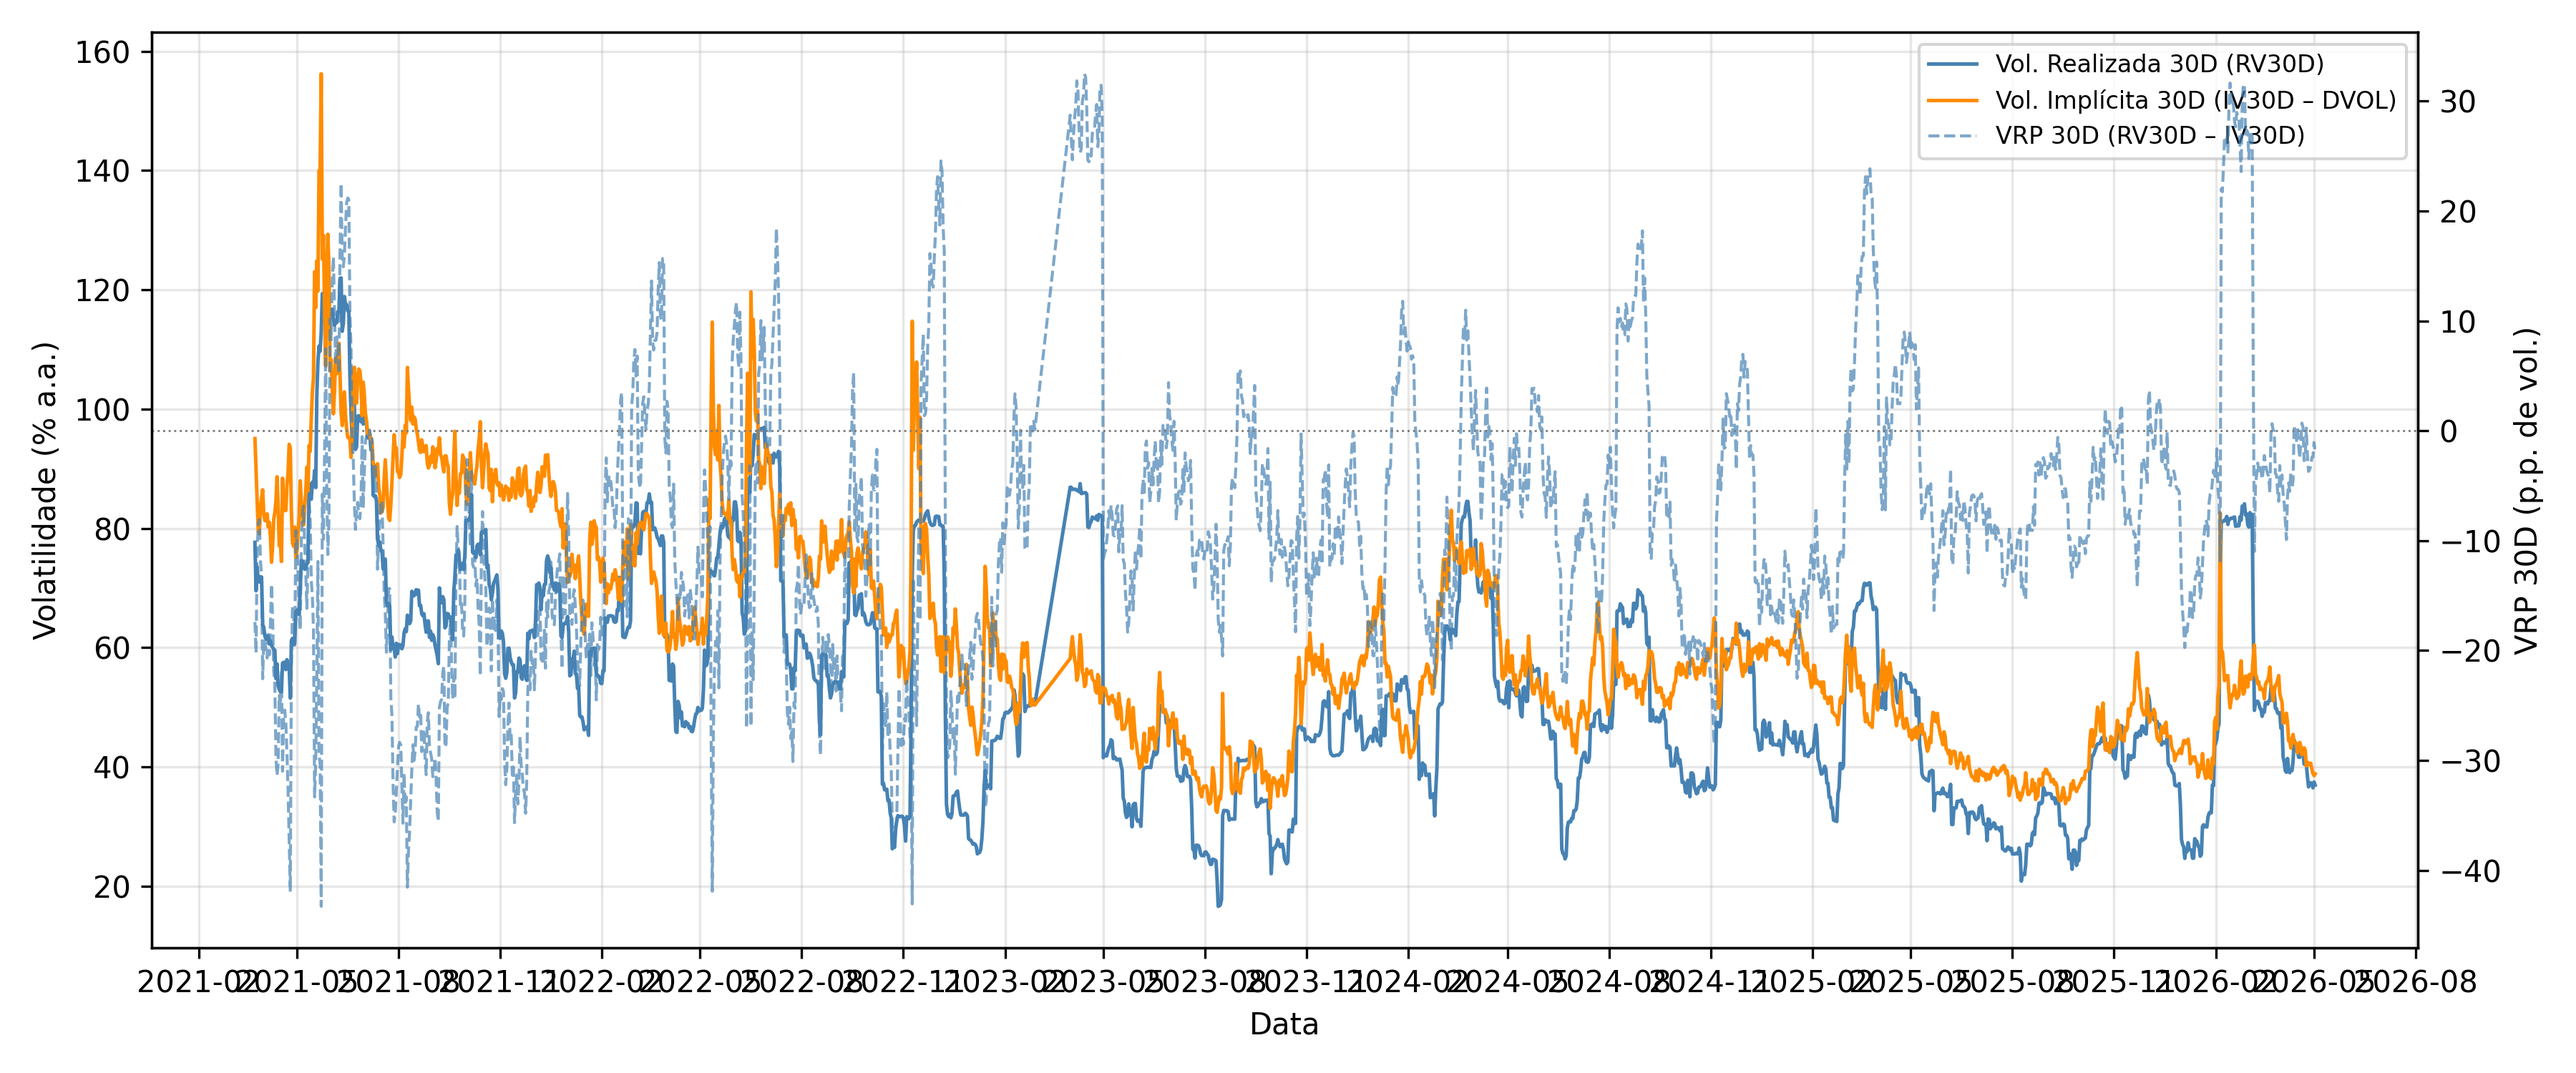
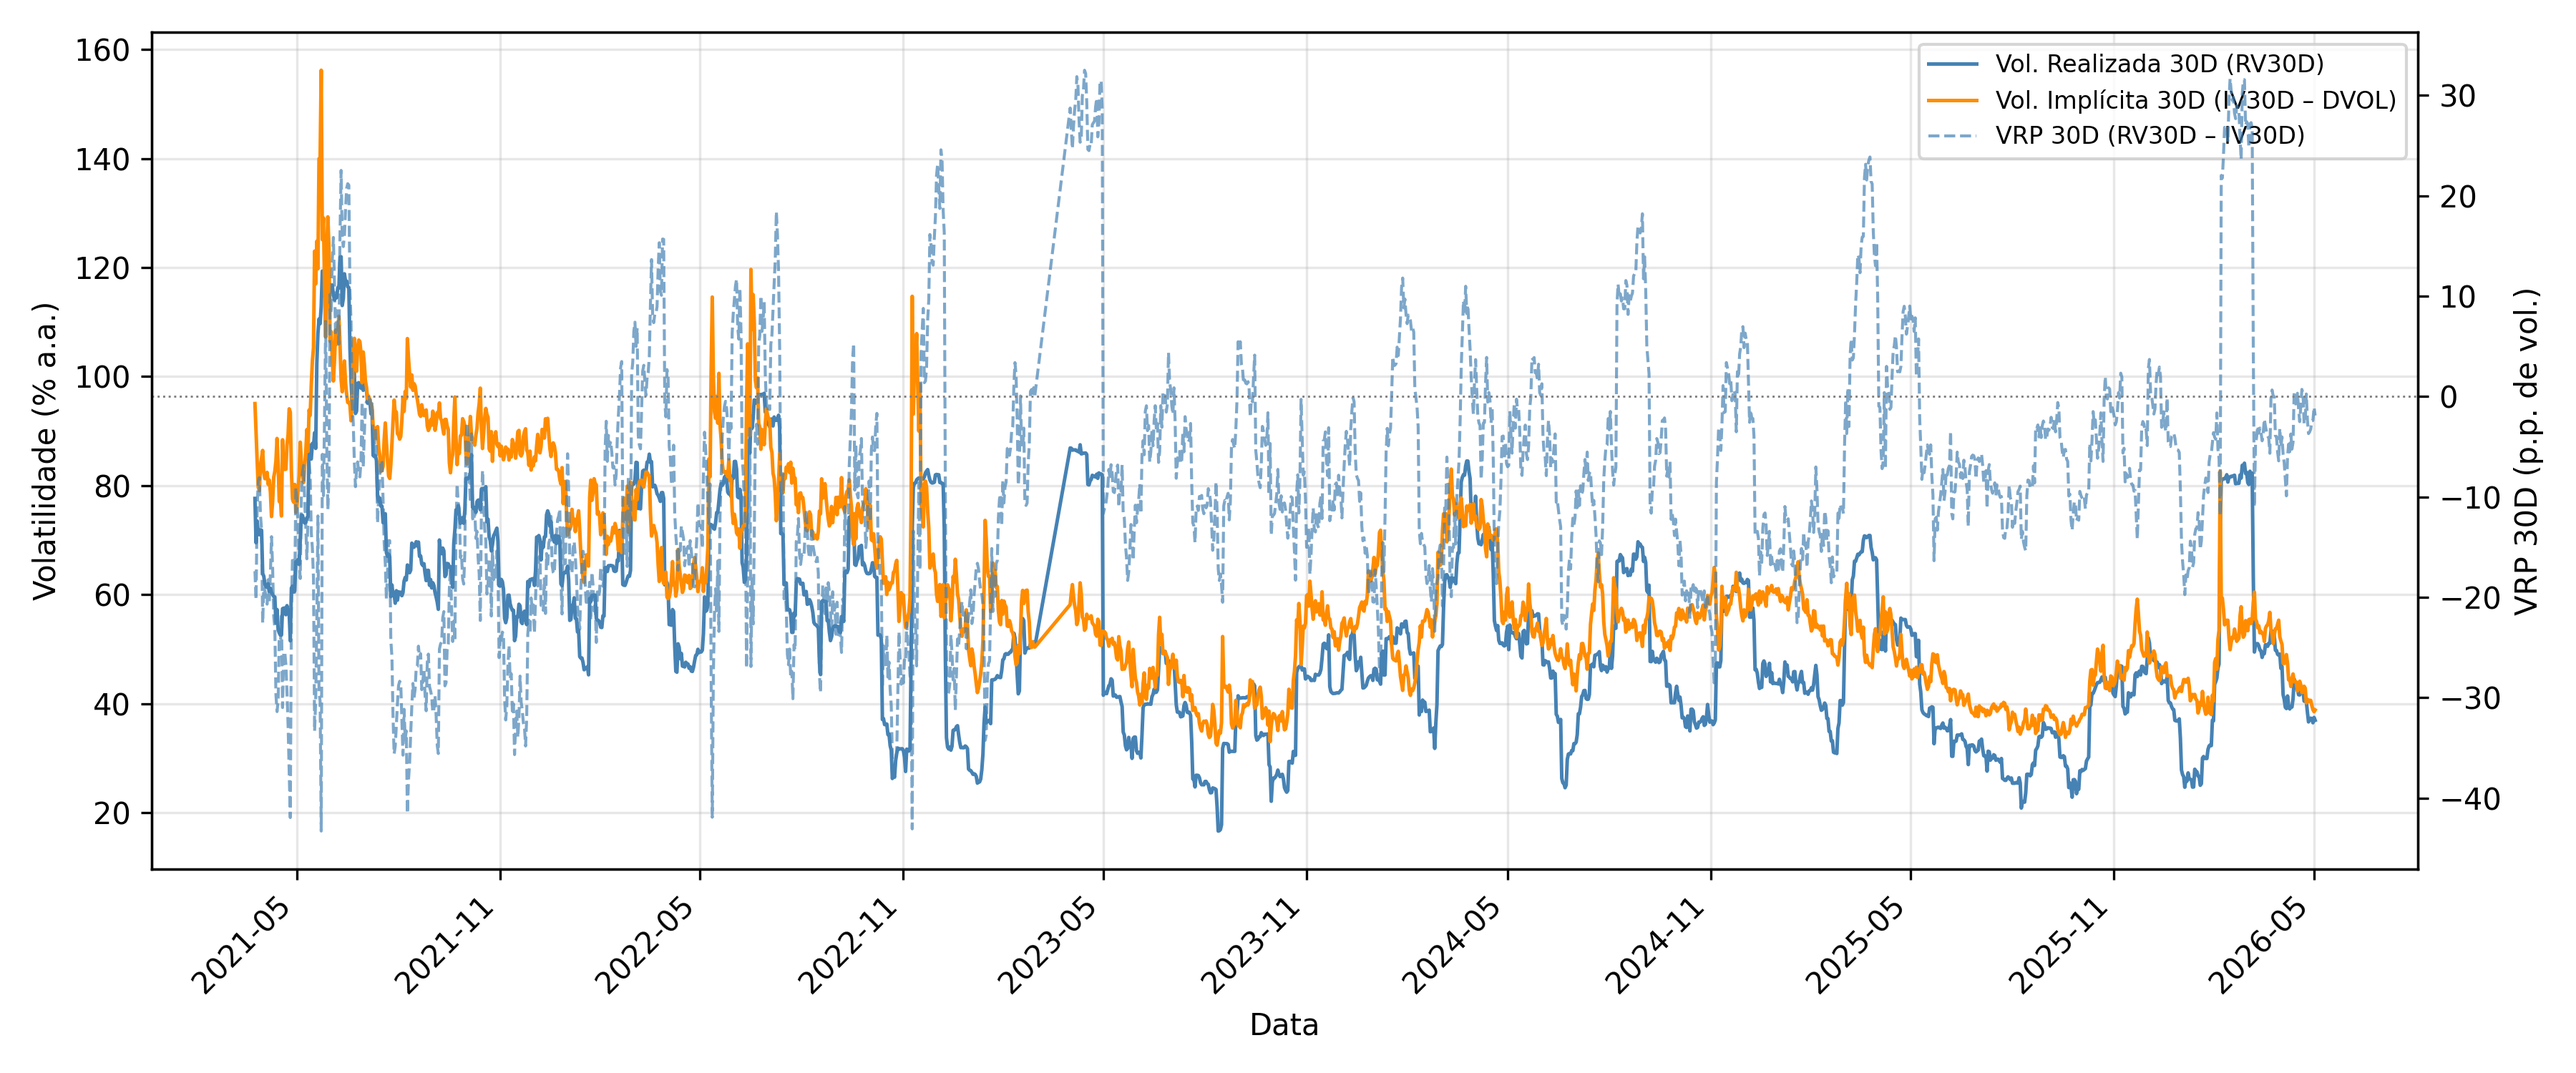
fix(cap3): corrige texto 3.3 (modo -7,5) e 3.4 (boxplot 6 anos, dispersao nao-monotonica), ticks legiveis na fig 3.1
- Secao 3.3: "modo entre -5 e -3" (bin do histograma) -> "em torno de -7,5"
  (pico real da densidade KDE, mais preciso que o bin).
- Secao 3.4: paragrafo reescrito para descrever o boxplot regenerado de 6
  anos (2021-2026), nao mais a figura antiga de 3 anos. Mediana negativa
  em todos os anos, compressao geral de -18 p.p. (2021) para -4 p.p.
  (fracao inicial de 2026, N=122), mas dispersao nao-monotonica: 2021/2022
  com maior IQR (17/19 p.p.), 2024 como excecao com dispersao elevada de
  novo, possivelmente ligada ao reposicionamento pos-ETF spot (mesma
  ancora institucional ja citada na introducao do capitulo).
- plot_vrp_timeseries.py: ticks do eixo x de MonthLocator(interval=3) para
  interval=6, rotacao 45 graus -- estavam sobrepostos e ilegiveis com 6
  anos de dados. Figura regenerada e conferida visualmente.

Nao pushado -- aguardando revisao do diff antes do push final.

diff --git a/chapters/cap3_dados.tex b/chapters/cap3_dados.tex
@@ -106,11 +106,10 @@ A distribuição do prêmio de risco de volatilidade apresenta duas
 características marcantes. Primeira, a presença de assimetria positiva
 (coeficiente de assimetria de $+0{,}59$) e caudas moderadamente pesadas
 (excesso de curtose de $+0{,}95$), afastando-se da hipótese de normalidade.
-Segunda, a distribuição é unimodal, com o modo concentrado na região de
-valores negativos (entre aproximadamente $-5$ e $-3$ pontos percentuais de
-volatilidade anualizada), consistente com a média amostral negativa
-($-8{,}25$ p.p.) e com o predomínio de um regime em que a volatilidade
-implícita supera a realizada.
+Segunda, a distribuição é unimodal, com o modo concentrado em torno de
+$-7{,}5$ pontos percentuais de volatilidade anualizada, consistente com a
+média amostral negativa ($-8{,}25$ p.p.) e com o predomínio de um regime em
+que a volatilidade implícita supera a realizada.
 
 Embora unimodal, a distribuição exibe assimetria positiva e uma cauda
 direita não desprezível: a maior parte das observações concentra-se em
@@ -144,13 +143,23 @@ Figura~\ref{fig:vrp_boxplot} apresenta os resultados desse agrupamento anual.
 \end{figure}
 }{}
 
-Os resultados indicam que o prêmio de risco de volatilidade não é homogêneo ao
-longo do tempo. Em 2023, o BVRP apresentou maior variabilidade e valores medianos
-mais elevados, ao passo que 2024 e 2025 exibiram distribuições mais comprimidas,
-porém com persistência do prêmio de seguro (valores negativos do BVRP). Essa evidência sugere que modelos com
-parâmetros constantes podem ser insuficientes para capturar plenamente a
-dinâmica do BVRP, justificando a adoção de abordagens que permitam variação
-temporal e efeitos de regime nos capítulos subsequentes.
+Os resultados indicam que o prêmio de risco de volatilidade não é homogêneo
+ao longo do tempo. O prêmio é negativo em todos os anos da amostra --- a
+mediana anual permanece abaixo de zero de 2021 a 2026 ---, confirmando a
+persistência do prêmio de seguro. Sua magnitude, contudo, atenua-se ao longo
+do período: a mediana passa de aproximadamente $-18$ p.p. em 2021 para cerca
+de $-4$ p.p. na fração inicial de 2026, indicando compressão gradual do
+prêmio à medida que o mercado de opções de Bitcoin amadurece. A dispersão
+não segue padrão monotônico: os anos de 2021 e 2022 exibem a maior
+variabilidade (amplitude interquartílica próxima de $17$ e $19$ p.p.,
+respectivamente), refletindo a turbulência do mercado nesse período, ao passo
+que 2023, 2025 e a fração de 2026 apresentam distribuições mais comprimidas.
+O ano de 2024 constitui exceção parcial, com dispersão novamente elevada,
+possivelmente associada ao reposicionamento do mercado após a aprovação dos
+ETFs \textit{spot} em janeiro daquele ano. Essa heterogeneidade sugere que
+modelos com parâmetros constantes podem ser insuficientes para capturar
+plenamente a dinâmica do BVRP, justificando a adoção de abordagens que
+permitam variação temporal e efeitos de regime nos capítulos subsequentes.
 
 % =========================================================
 \section{Relações iniciais entre prêmio de risco de volatilidade e retornos}

diff --git a/code/plot_vrp_timeseries.py b/code/plot_vrp_timeseries.py
@@ -33,8 +33,8 @@ def main():
     ax1.set_xlabel("Data")
     ax1.set_ylabel("Volatilidade (% a.a.)")
     ax1.xaxis.set_major_formatter(mdates.DateFormatter("%Y-%m"))
-    ax1.xaxis.set_major_locator(mdates.MonthLocator(interval=3))
-    plt.setp(ax1.xaxis.get_majorticklabels(), rotation=0, ha="center")
+    ax1.xaxis.set_major_locator(mdates.MonthLocator(interval=6))
+    plt.setp(ax1.xaxis.get_majorticklabels(), rotation=45, ha="right")
 
     ax2 = ax1.twinx()
     ax2.plot(df["date"], df["vrp_30d"], color="steelblue", linewidth=1.0,
